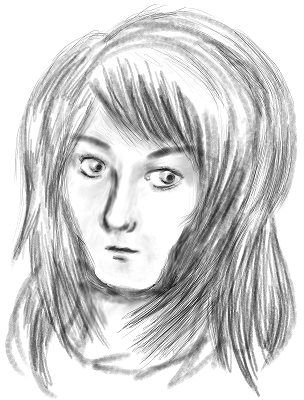
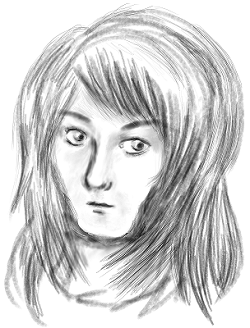
Make test HB image smaller
This also puts it in a round frame, since it looked strange in the
square one.

diff --git a/art.html b/art.html
@@ -504,7 +504,7 @@
                 <div class="col-lg-3">
                 </div>
                 <div class="col-lg-6">
-                    <img class="img-responsive center-block" src="img/hb-pencil-test-crop.png">
+                    <img class="img-responsive img-circle center-block" src="img/hb-pencil-test-crop.png">
                         <i> A quick test of the HB pencil preset brush, along with some smudging presets.
                         I've definitely
                         got a long way to go before I can replace a real pencil.</i>
